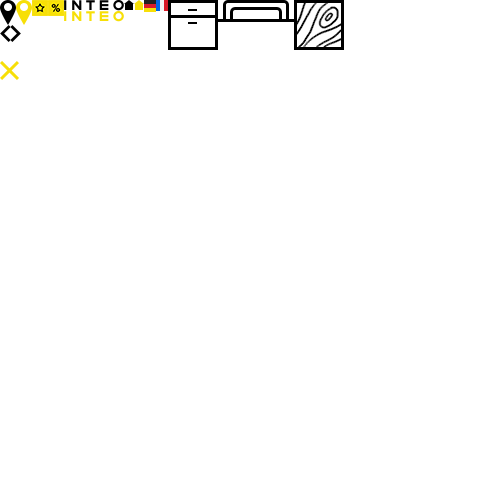
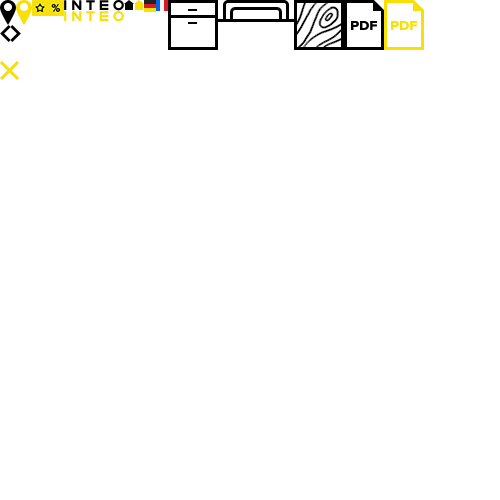
Мебель (карточка товара)

Changed region(s): [[0.69, 0.0, 0.87, 0.12]]

diff --git a/index6.html b/index6.html
@@ -1,0 +1,222 @@
+<!doctype html>
+
+<head>
+  <meta charset="utf-8">
+  <title>Rinali</title>
+  <meta name="viewport" content="width=1010">
+  <meta http-equiv="X-UA-Compatible" content="IE=edge,chrome=1">
+  <meta name="description" content="">
+  <meta name="keywords" content="">
+  <link rel="stylesheet" href="/f/css/fotorama.css">
+  <link rel="stylesheet" href="/f/css/main.css">
+  <!--[if lte IE 9]><link rel="stylesheet" href="f/css/ie.css"><![endif]-->
+  <link rel="stylesheet" href="/f/fancybox/jquery.fancybox.css?v=2.1.5" media="screen">
+  <link rel="shortcut icon" href="favicon.ico">
+  <link href="http://fonts.googleapis.com/css?family=PT+Sans:400,400italic,700|Open+Sans:400,400italic,800,600&subset=all" rel="stylesheet">
+  <script src="/f/js/jquery-1.11.1.min.js"></script>
+  <script src="/f/fancybox/jquery.fancybox.pack.js?v=2.1.5"></script>
+  <script src="/f/js/fotorama.js"></script>
+  <script src="/f/js/iscroll.js"></script>
+  <script src="/f/js/common.js"></script>
+  <!--[if lt IE 9]><script src="https://oss.maxcdn.com/libs/respond.js/1.4.2/respond.min.js"></script><![endif]-->
+</head>
+<body>
+  <div class="b-wrap">
+    <div class="b-container b-container_scrolled">
+      <header class="b-header">
+        <a href="/" class="b-logo">
+          <img src="/f/i/logo.jpg" alt="">
+        </a>
+        <div class="b-contacts">
+          <a href="#" class="iconize-link"><span class="icon-contacts"></span><span class="b-contacts__link">Контакты</span></a>
+        </div>
+        <div class="b-main-menu-wrap">
+          <ul class="b-main-menu">
+            <li class="b-main-menu__item"><a href="#">Кухни</a></li>
+            <li class="b-main-menu__item"><a href="#">Мебель</a></li>
+            <li class="b-main-menu__item"><a href="#">Техника</a></li>
+            <li class="b-main-menu__item"><a href="#">текстиль</a></li>
+          </ul>
+        </div>
+      </header>
+      <div class="b-content clearfix">
+        <div class="b-goods">
+          <ul class="b-breadcrumbs">
+            <li class="b-breadcrumbs__item b-breadcrumbs__item_home"><a href="/" class="icon-home"></a></li><li class="b-breadcrumbs__item"><span>&rarr; </span><a href="#">Мебель</a></li><li class="b-breadcrumbs__item"><span>&rarr; </span><a href="#">Мягкая мебель</a></li><li class="b-breadcrumbs__item"><span>&rarr; </span><a href="#">Мягкая мебель «Rolf Benz»</a></li><li class="b-breadcrumbs__item"><span>&rarr; </span><span>Rolf Benz 360</span></li></ul>
+          <h1 class="b-goods__title">rolf benz 360</h1>
+          <div class="b-navig">
+            <span class="b-navig__btn"><a href="#"></a>Rolf Benz 50</span>
+            <span class="b-navig__btn b-navig__btn_right">Rolf Benz 560<a href="#"></a></span>
+          </div>
+          <div class="b-holder">
+            <div class="b-goods__slider fotorama" data-width="100%" data-arrows="false" data-transition="crossfade" data-autoplay="true" data-loop="true">
+              <img src="/f/i/furniture/soft/slider/1.jpg" alt="">
+              <img src="/f/i/kitchen/slider/2.jpg" alt="">
+              <img src="/f/i/kitchen/slider/3.jpg" alt="">
+              <img src="/f/i/kitchen/slider/4.jpg" alt="">
+            </div>
+            <div class="b-where">
+              <p class="b-where__price"><span>от</span>54 000<span class="rub">&#8377</span></p>
+              <div class="b-where__btn">
+                <a href="#" class="black-btn iconize-link"><span class="icon-contacts"></span>Где купить?</a>
+              </div>
+            </div>
+            <div class="b-about-brand">
+              <img src="/f/i/soft.png" class="b-about-brand__ico" alt="">
+              <img src="/f/i/furnit-logo2.png" class="b-about-brand__logo" alt="">
+              <p class="b-about-brand__text">В коллекции Rolf Benz вы можете открыть для себя целые миры уюта, всегда разные, всегда потрясающие, всегда индивидуальные. Выберите свой личный мир уюта, чтобы жить именно так, как подсказывают ваши чувства.</p>
+              <a href="#" class="b-detail"><span>Подробнее</span> &rarr; </a>
+            </div>
+            <div class="b-goods__detail">
+              <p class="b-goods__detail-text">Новая кушетка Rolf Benz 360 – отличное место для отдыха и покоя, где можно прийти в себя.
+              Ее инновационная, стянутая мембраной металлическая рама с одной стороны формирует узкий силуэт, а с другой – обеспечивает максимально расслабленное и необычное ощущение от лежания – чувствуешь себя таким же невесомым, как в удобном гамаке. Ножки из блестящего, матового хрома или покрытые трендовым черным лаком производят впечатление грациозно закрученной ленты и придают кушетке своеобразие и динамику. Выполненные с любовью и качественно обработанные декоративные швы придают дополнительную эксклюзивность и элегантность. Встретьтесь с самим собой – в кресле Rolf Benz 360.</p>
+              <div class="b-goods__detail-wrap">
+                <div class="b-goods__detail-item"><span class="b-goods__detail-name">Высота сидения</span><span class="b-goods__detail-value">39 см</span></div>
+                <div class="b-goods__detail-item"><span class="b-goods__detail-name">Глубина сидения</span><span class="b-goods__detail-value">112 см</span></div>
+                <div class="b-goods__detail-item"><span class="b-goods__detail-name">Функциональность</span><span class="b-goods__detail-value">Нет</span></div>
+                <div class="b-goods__detail-item"><span class="b-goods__detail-name">Обивки</span><span class="b-goods__detail-value">Свыше 230 видов текстиля и 100 видов кожи</span></div>
+              </div>
+              <div class="b-file b-file_pdf">
+                <p class="b-file__title">Технические данные <span>(530Кб, .pdf)</span></p>
+                <a href="#" class="b-file__link"><span>Скачать</span> &rarr;</a>
+              </div>
+              <div class="b-file b-file_pdf">
+                <p class="b-file__title">Брошюра <span>(530Кб, .pdf)</span></p>
+                <a href="#" class="b-file__link"><span>Скачать</span> &rarr;</a>
+              </div>
+            </div>
+          </div>
+        </div>
+      </div>
+    </div>
+    <footer class="b-footer">
+      <a class="b-made-by" href="http://inteo-s.ru" rel="external">
+        Создание сайта -
+        <span class="b-made-by__logo"></span>
+      </a>
+      <input type="text" class="b-footer__search input-search input" placeholder="Поиск">
+      <ul class="b-footer__menu">
+        <li><a href="#">О компании</a></li>
+        <li><a href="#">Бренды</a></li>
+        <li><a href="#">Наши проекты</a></li>
+        <li><a href="#">Советы специалистов</a></li>
+        <li><span class="icon-action"></span><a href="#">Акции</a></li>
+        <li><span class="icon-templates"></span><a href="#">Продажа образцов</a></li>
+        <li><a href="#">Новости</a></li>
+      </ul>
+    </footer>
+  </div>
+  <div class="b-popups">
+    <div id="facade-popup" class="b-facade-popup b-popup">
+      <p class="b-popup__title">фасады</p>
+      <p class="b-popup__text">Для согласованной общей картины наши шкафы в любой кухне выпускаемое нами внутренне и внешне в том же стиле - и все без всякой дополнительной оплаты. Потому что хороший дизайн на основе человека и цели. Вот почему вы можете выбрать один из нескольких фронтах, чтобы сделать вашу кухню в соответствии с вашим индивидуальный вкус.</p>
+      <div class="b-popup__scroll" id="facade-scroll">
+        <ul>
+          <li class="b-popup__scroll-item">
+            <p class="b-popup__scroll-name">739</p>
+            <img src="/f/i/kitchen/facade/1.jpg" alt="" class="b-popup__scroll-img">
+          </li><li class="b-popup__scroll-item">
+            <p class="b-popup__scroll-name">738</p>
+            <img src="/f/i/kitchen/facade/2.jpg" alt="" class="b-popup__scroll-img">
+          </li><li class="b-popup__scroll-item">
+            <p class="b-popup__scroll-name">735</p>
+            <img src="/f/i/kitchen/facade/3.jpg" alt="" class="b-popup__scroll-img">
+          </li><li class="b-popup__scroll-item">
+            <p class="b-popup__scroll-name">734</p>
+            <img src="/f/i/kitchen/facade/4.jpg" alt="" class="b-popup__scroll-img">
+          </li><li class="b-popup__scroll-item">
+            <p class="b-popup__scroll-name">732</p>
+            <img src="/f/i/kitchen/facade/5.jpg" alt="" class="b-popup__scroll-img">
+          </li><li class="b-popup__scroll-item">
+            <p class="b-popup__scroll-name">739</p>
+            <img src="/f/i/kitchen/facade/1.jpg" alt="" class="b-popup__scroll-img">
+          </li><li class="b-popup__scroll-item">
+            <p class="b-popup__scroll-name">738</p>
+            <img src="/f/i/kitchen/facade/2.jpg" alt="" class="b-popup__scroll-img">
+          </li><li class="b-popup__scroll-item">
+            <p class="b-popup__scroll-name">735</p>
+            <img src="/f/i/kitchen/facade/3.jpg" alt="" class="b-popup__scroll-img">
+          </li><li class="b-popup__scroll-item">
+            <p class="b-popup__scroll-name">734</p>
+            <img src="/f/i/kitchen/facade/4.jpg" alt="" class="b-popup__scroll-img">
+          </li><li class="b-popup__scroll-item">
+            <p class="b-popup__scroll-name">732</p>
+            <img src="/f/i/kitchen/facade/5.jpg" alt="" class="b-popup__scroll-img">
+          </li>
+        </ul>
+      </div>
+    </div>
+    <div id="haft-popup" class="b-haft-popup b-popup">
+      <p class="b-popup__title">Ручки</p>
+      <p class="b-popup__subtitle">Кухня под контролем.</p>
+      <p class="b-popup__text">С ручками вы задает тон: Ручка для бара. Ручка-перила. Круглая или квадратная. Матовая или блестящая. Просто выберите свою любимую, чтобы соответствовало фасаду и играйте с цветами и материалами отделки. Мы проконсультируем Вас.</p>
+      <img src="/f/i/kitchen/haft/1.jpg" alt="" class="b-popup__main-img">
+      <div class="b-popup__scroll" id="haft-scroll">
+        <ul>
+          <li class="b-popup__scroll-item">
+            <img src="/f/i/kitchen/haft/1.jpg" alt="" class="b-popup__scroll-img">
+          </li><li class="b-popup__scroll-item">
+            <img src="/f/i/kitchen/haft/2.jpg" alt="" class="b-popup__scroll-img">
+          </li><li class="b-popup__scroll-item">
+            <img src="/f/i/kitchen/haft/3.jpg" alt="" class="b-popup__scroll-img">
+          </li><li class="b-popup__scroll-item">
+            <img src="/f/i/kitchen/haft/4.jpg" alt="" class="b-popup__scroll-img">
+          </li><li class="b-popup__scroll-item">
+            <img src="/f/i/kitchen/haft/1.jpg" alt="" class="b-popup__scroll-img">
+          </li><li class="b-popup__scroll-item">
+            <img src="/f/i/kitchen/haft/2.jpg" alt="" class="b-popup__scroll-img">
+          </li><li class="b-popup__scroll-item">
+            <img src="/f/i/kitchen/haft/3.jpg" alt="" class="b-popup__scroll-img">
+          </li><li class="b-popup__scroll-item">
+            <img src="/f/i/kitchen/haft/4.jpg" alt="" class="b-popup__scroll-img">
+          </li>
+        </ul>
+      </div>
+    </div>
+    <div id="tabletop-popup" class="b-tabletop-popup b-popup">
+      <p class="b-popup__title">Столешницы</p>
+      <p class="b-popup__text">Столешницы гораздо больше, чем тарелка работать. Он подчеркивает стиль помещения и задает тон в дизайне края и декора. Это контрастирует может быть установлен и линии подчеркиваются. Обратитесь к своему дилеру о разнообразных вариантов дизайна в 12, 16, 25, 40 и 50 миллиметров.</p>
+      <p class="b-popup__scroll-name">Treibholz - T23</p>
+      <img src="/f/i/kitchen/tabletop/1.jpg" alt="" class="b-popup__main-img">
+      <div class="b-popup__scroll" id="tabletop-scroll">
+        <ul>
+          <li class="b-popup__scroll-item">
+            <img src="/f/i/kitchen/tabletop/1.jpg" alt="" class="b-popup__scroll-img" data-name="Treibholz - T23">
+          </li><li class="b-popup__scroll-item">
+            <img src="/f/i/kitchen/tabletop/2.jpg" alt="" class="b-popup__scroll-img" data-name="Treibholz - T24">
+          </li><li class="b-popup__scroll-item">
+            <img src="/f/i/kitchen/tabletop/3.jpg" alt="" class="b-popup__scroll-img" data-name="Treibholz - T25">
+          </li><li class="b-popup__scroll-item">
+            <img src="/f/i/kitchen/tabletop/4.jpg" alt="" class="b-popup__scroll-img" data-name="Treibholz - T26">
+          </li><li class="b-popup__scroll-item">
+            <img src="/f/i/kitchen/tabletop/5.jpg" alt="" class="b-popup__scroll-img" data-name="Treibholz - T27">
+          </li><li class="b-popup__scroll-item">
+            <img src="/f/i/kitchen/tabletop/1.jpg" alt="" class="b-popup__scroll-img" data-name="Treibholz - T28">
+          </li><li class="b-popup__scroll-item">
+            <img src="/f/i/kitchen/tabletop/2.jpg" alt="" class="b-popup__scroll-img" data-name="Treibholz - T29">
+          </li><li class="b-popup__scroll-item">
+            <img src="/f/i/kitchen/tabletop/3.jpg" alt="" class="b-popup__scroll-img" data-name="Treibholz - T30">
+          </li><li class="b-popup__scroll-item">
+            <img src="/f/i/kitchen/tabletop/4.jpg" alt="" class="b-popup__scroll-img" data-name="Treibholz - T31">
+          </li><li class="b-popup__scroll-item">
+            <img src="/f/i/kitchen/tabletop/5.jpg" alt="" class="b-popup__scroll-img" data-name="Treibholz - T32">
+          </li>
+        </ul>
+      </div>
+    </div>
+  </div>
+</body>
+
+</html>
+
+
+
+
+
+
+
+
+
+
+
+

diff --git a/f/css/main.css b/f/css/main.css
@@ -1519,6 +1519,7 @@ a:hover {
 }
 .b-container_scrolled .b-content {
   overflow: visible;
+  padding-bottom: 150px;
 }
 .b-footer__search {
   float: right;
@@ -2454,6 +2455,7 @@ a:hover {
   float: left;
   margin-right: 68px;
   padding-top: 10px;
+  z-index: 10;
 }
 @media (max-width: 1279px) {
   .b-about-brand {
@@ -2464,7 +2466,7 @@ a:hover {
   margin-bottom: 25px;
 }
 .b-about-brand__ico {
-  left: -80px;
+  left: -70px;
   position: absolute;
   top: -105px;
   z-index: -1;
@@ -2478,13 +2480,14 @@ a:hover {
 }
 .b-goods__detail {
   overflow: hidden;
+  padding-bottom: 50px;
 }
 .b-goods__detail-text {
   line-height: 35px;
   margin-bottom: 35px;
 }
 .b-goods__detail-name {
-  width: 130px;
+  width: 175px;
   display: inline-block;
   vertical-align: top;
   line-height: 35px;
@@ -2819,4 +2822,102 @@ a:hover {
 }
 .b-subsection-filter__item_active:hover {
   outline: none;
+}
+.b-where {
+  height: 230px;
+  position: absolute;
+  right: 60px;
+  top: 110px;
+  width: 280px;
+  z-index: 10;
+  text-align: center;
+  padding-top: 50px;
+
+}
+.b-where:before {
+  background: #f7df08;
+  width: 100%;
+  height: 100%;
+  -moz-transform: skewY(-15deg);
+  -ms-transform: skewY(-15deg); 
+  -webkit-transform: skewY(-15deg); 
+  -o-transform: skewY(-15deg); 
+  transform: skewY(-15deg);
+  position: absolute;
+  top: 0;
+  left: 0;
+  content: '';
+  z-index: -1;
+}
+.b-where:after {
+  background: url(/f/i/map.jpg);
+  background-position: -30px -30px;
+  position: absolute;
+  bottom: 0;
+  left: 0;
+  width: 100%;
+  height: 100px;
+  content: '';
+  -moz-transform: skewY(-15deg);
+  -ms-transform: skewY(-15deg); 
+  -webkit-transform: skewY(-15deg); 
+  -o-transform: skewY(-15deg); 
+  transform: skewY(-15deg);
+  z-index: -1;
+}
+.b-where__price {
+  font: bold 40px/70px 'ProximaNova', sans-serif;
+  letter-spacing: .05em;
+}
+.b-where__price span {
+  font-size: 16px;
+  margin-right: 5px;
+}
+.b-where__price .rub {
+  font-size: 40px;
+  margin-left: 5px;
+}
+.b-where__btn .black-btn {
+  padding: 0 40px;
+}
+.b-where__btn .icon-contacts {
+  margin-right: 10px;
+}
+.b-file {
+  position: relative;
+  padding-left: 60px;
+  display: inline-block;
+  vertical-align: top;
+  margin-right: 30px;
+}
+.b-file__title {
+  font-weight: bold;
+  margin-bottom: 10px;
+}
+.b-file__title span {
+  font-weight: normal;
+}
+.b-file__link {
+  border: none;
+  font-size: 14px;
+  font-style: italic;
+}
+.b-file__link span {
+  border-bottom: 1px solid;
+}
+.b-file__link:before {
+  content: '';
+  display: block;
+  width: 40px;
+  height: 50px;
+  position: absolute;
+  left: 0;
+  top: 0;
+  background: url(/f/i/icons.png) -344px 0 no-repeat;
+}
+.b-file_pdf .b-file__link:before {
+  background-position: -344px 0;
+}
+.b-file_pdf .b-file__link:hover:before {
+  background-position: -384px 0;
 }
